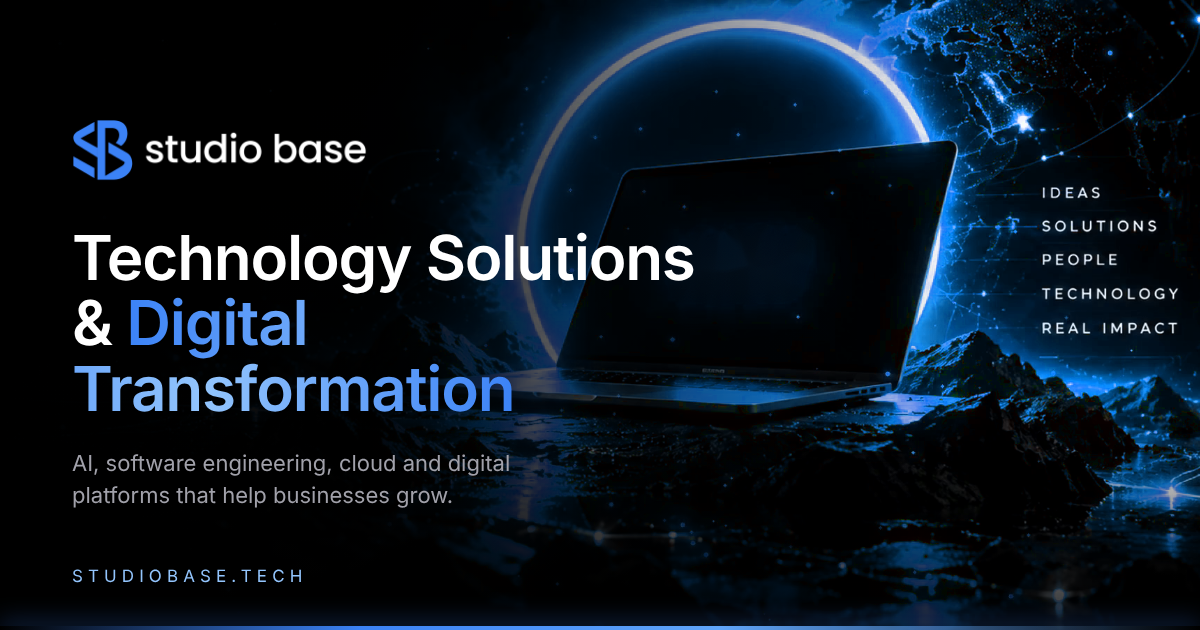
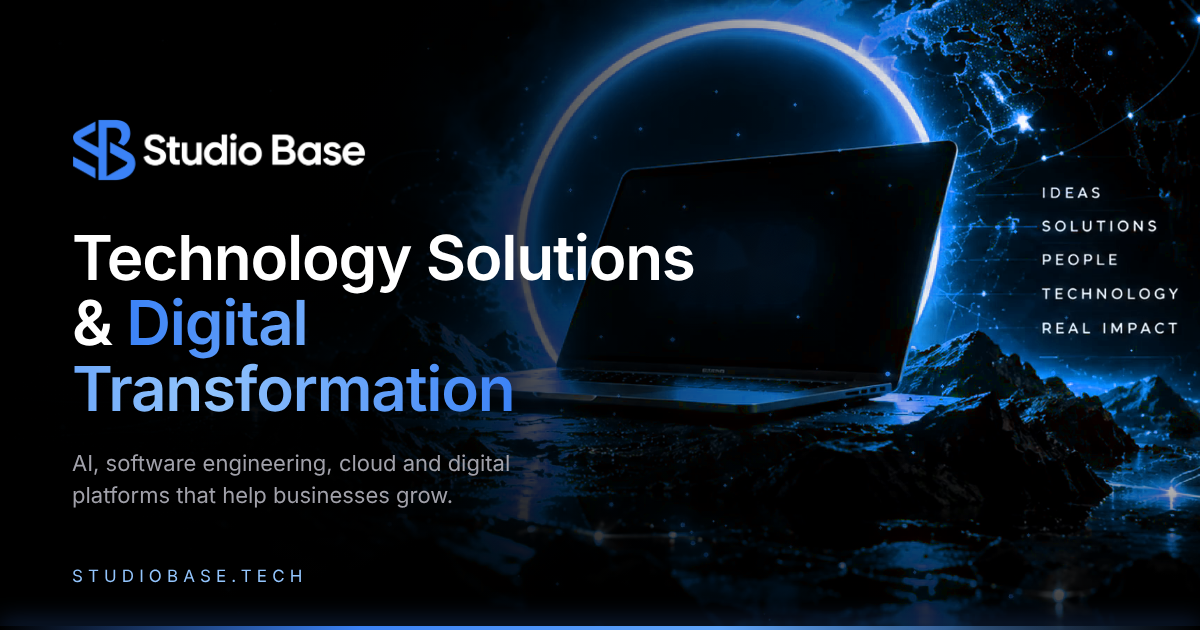
.

Changed region(s): [[0.0617, 0.181, 0.3083, 0.3016]]

diff --git a/lib/seo.ts b/lib/seo.ts
@@ -11,7 +11,7 @@ import type { Metadata } from "next";
 export const SITE_URL = "https://studiobase.tech";
 export const SITE_NAME = "Studio Base";
 export const SITE_EMAIL = "info@studiobase.tech";
-export const SITE_LOGO = `${SITE_URL}/images/studio-base-logo-sb.png`;
+export const SITE_LOGO = `${SITE_URL}/images/studio-base-logo-v2.png`;
 
 /**
  * Google Search Console verification (HTML tag method).

diff --git a/app/template.tsx b/app/template.tsx
@@ -24,7 +24,7 @@ export default function Template({ children }: { children: React.ReactNode }) {
 
         {/* logo in the middle while the curtain is up */}
         <motion.img
-          src="/images/studio-base-logo-sb.png"
+          src="/images/studio-base-logo-v2.png"
           alt=""
           initial={{ opacity: 1, scale: 1 }}
           animate={{ opacity: 0, scale: 0.9 }}

diff --git a/components/Navbar.tsx b/components/Navbar.tsx
@@ -110,7 +110,7 @@ export default function Navbar() {
               transition={{ type: "spring", stiffness: 300, damping: 18 }}
             >
               <Image
-                src="/images/studio-base-logo-sb.png"
+                src="/images/studio-base-logo-v2.png"
                 alt="Studio Base"
                 width={240}
                 height={50}

diff --git a/sections/Footer.tsx b/sections/Footer.tsx
@@ -28,7 +28,7 @@ export default function Footer() {
           <div className="col-span-2 lg:col-span-1">
             <Link href="/">
               <img
-                src="/images/studio-base-logo-sb.png"
+                src="/images/studio-base-logo-v2.png"
                 alt="Studio Base"
                 className="h-10 w-auto"
               />
